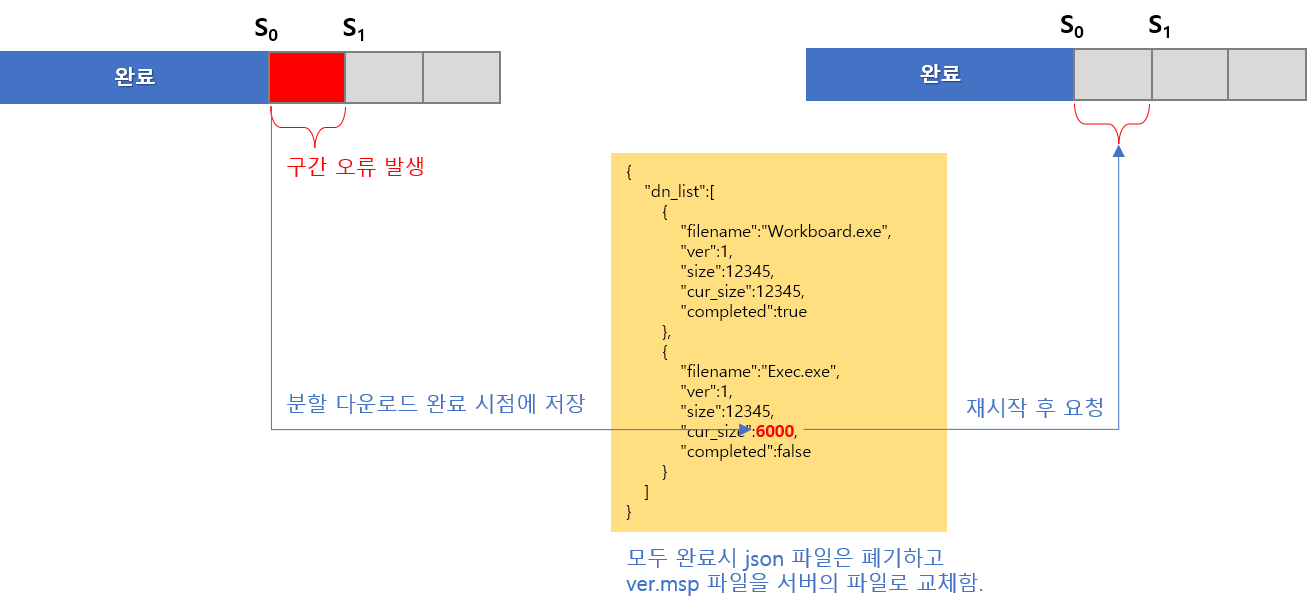
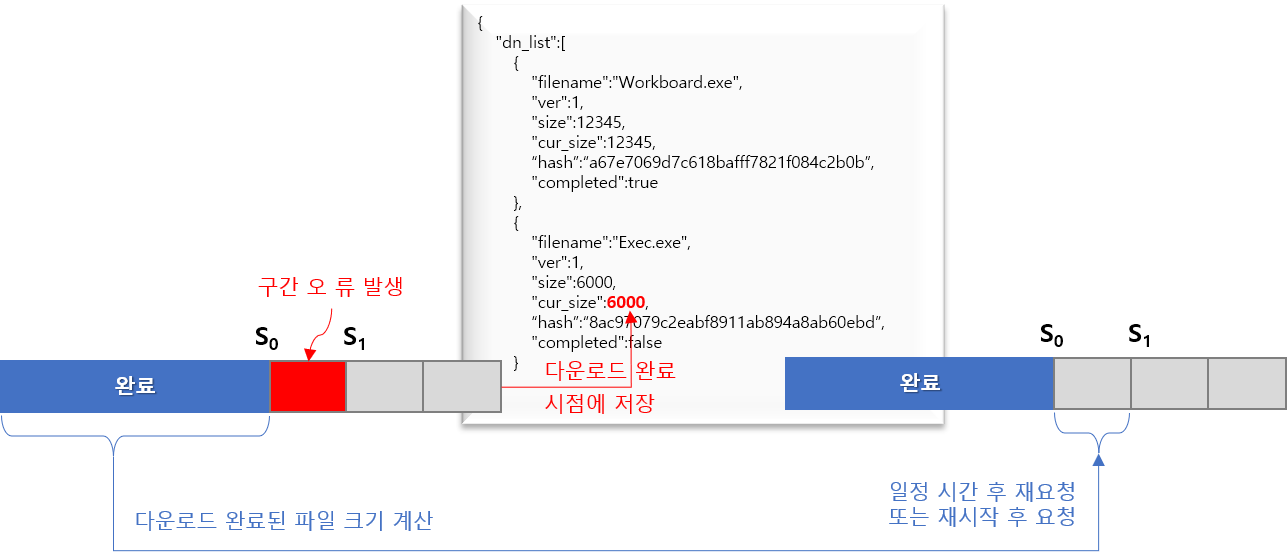
업데이트 정보 수정

diff --git a/_posts/default/2023-10-13-partial_update.md b/_posts/default/2023-10-13-partial_update.md
@@ -95,5 +95,5 @@ sitemap:
 ---
 
 ## <b>다운로드 실패시 처리 방안</b>  
-분할 다운로드(Partial download)시 실패한 경우에는 dn.json파일의 현재 다운로드 완료한 크기로 부터 정보를 얻어 이전에 다운로드 완료한 부분(S<sub>0</sub>)에서 부터 S<sub>1</sub>까지  재 요청하여 다운로드를 수행합니다. 이러한 방법을 통해 프로그램이 재시작하더라도 이어받기가 가능해 집니다.
+분할 다운로드(Partial download)시 실패(S<sub>0</sub>~S<sub>1</sub> 구간)한 경우에는 현재까지 다운로드 완료한 크기를 얻어와 이전에 다운로드 완료한 부분(S<sub>0</sub>)에서 부터 S<sub>1</sub>까지  재 요청하여 다운로드를 수행합니다. 이러한 방법을 통해 프로그램이 재시작하더라도 이어받기가 가능해 집니다.
 ![PartailDownload_005](https://monoslab.github.io/assets/img/posts/prj_mpdn_005.png)   
